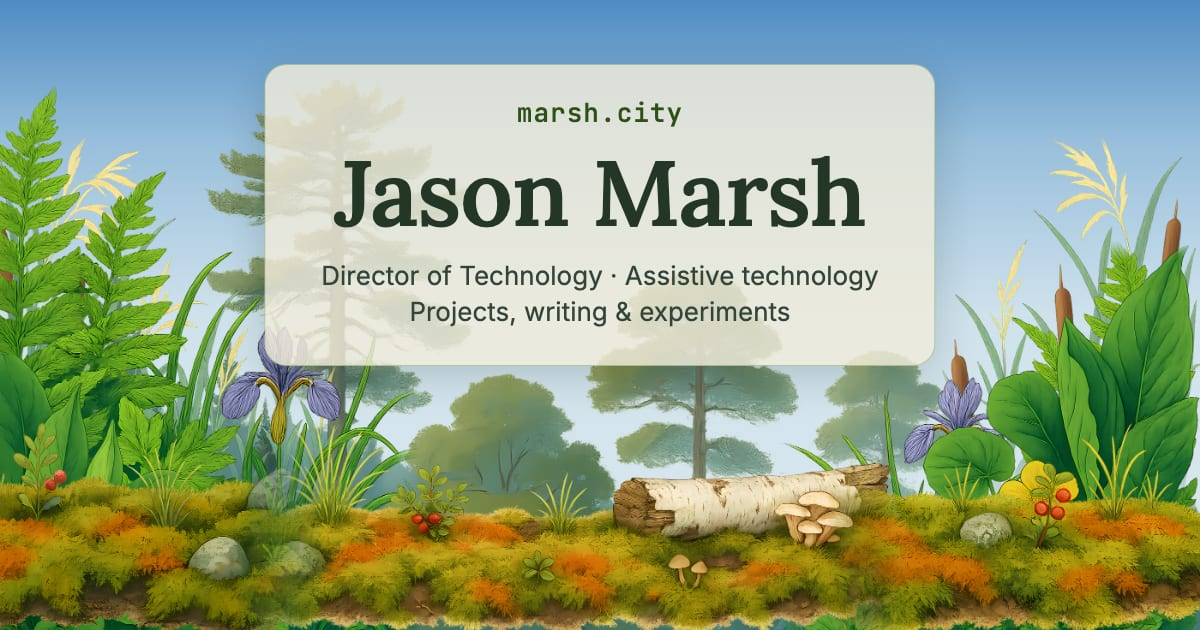
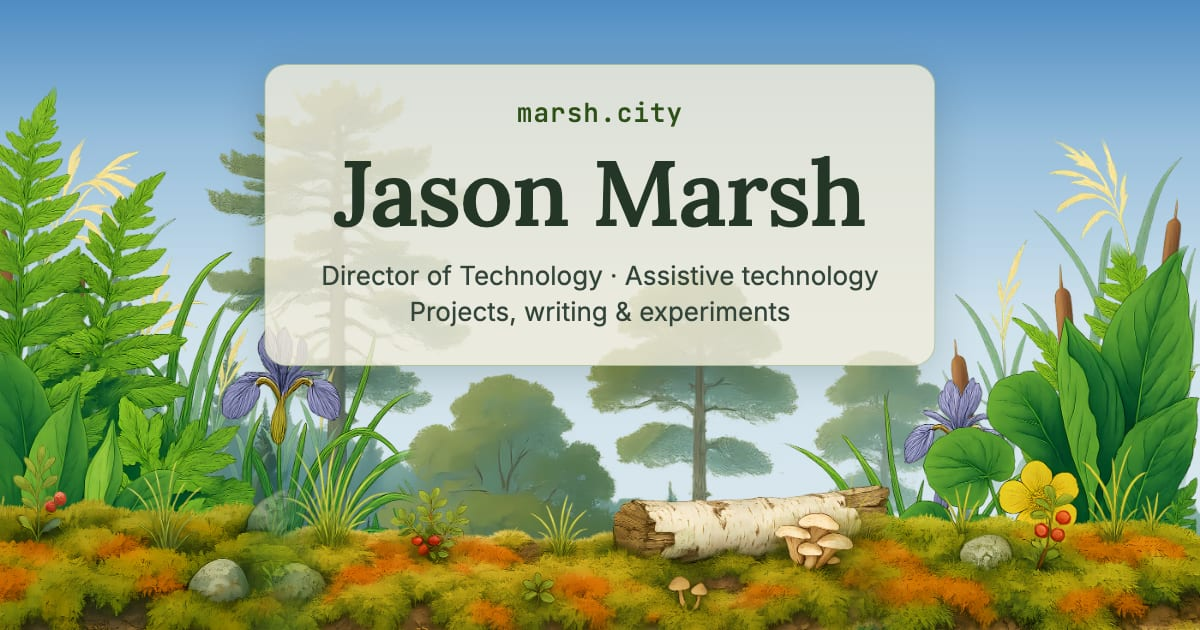
fix(foliage): tuck the ground strip's soil fringe below the screen
The strip's painted soil has a ragged bottom edge; with the base pinned at
the band bottom, the fringe showed with other layers visible through its
gaps. Pinned lower: end-band 1.05 on desktop/landscape, 1.03 on phones
(thinner strip). Share card matches.

Changed region(s): [[0.0, 0.6635, 1.0, 1.0]]

diff --git a/src/styles/global.css b/src/styles/global.css
@@ -526,7 +526,10 @@ footer.site-foot {
   --layer-img: image-set(url(/foliage/front.avif) 1x, url(/foliage/front@2x.avif) 2x);
 }
 .foliage-frame--ground .foliage-layer {
-  --end-band: 1;
+  /* 1.05: the strip's soil has a ragged bottom fringe; pinning it this far
+     below the band tucks the fringe off-screen instead of showing the
+     layers behind through its gaps */
+  --end-band: 1.05;
   --layer-start: 45vh;
   --layer-range-start: 60%;
   --layer-img: image-set(url(/foliage/ground.avif) 1x, url(/foliage/ground@2x.avif) 2x);
@@ -597,6 +600,7 @@ footer.site-foot {
     --layer-img: image-set(url(/foliage/front-m.avif) 1x, url(/foliage/front-m@2x.avif) 2x);
   }
   .foliage-frame--ground .foliage-layer {
+    --end-band: 1.03;  /* thinner phone strip, so a smaller tuck hides the fringe */
     --layer-img: image-set(url(/foliage/ground-m.avif) 1x, url(/foliage/ground-m@2x.avif) 2x);
   }
 }
